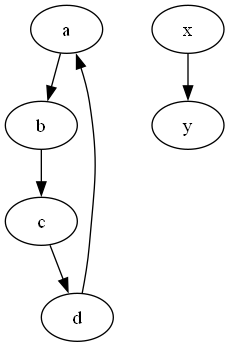
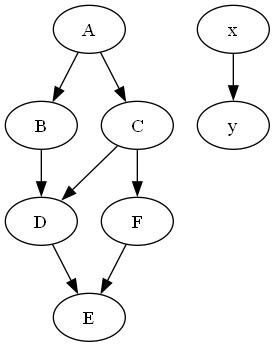
Add implementation for graph search

diff --git a/src/main/java/edu/asu/cse464/graphparser/BreadthFirstSearch.java b/src/main/java/edu/asu/cse464/graphparser/BreadthFirstSearch.java
@@ -1,0 +1,77 @@
+package edu.asu.cse464.graphparser;
+
+import java.util.*;
+
+
+public class BreadthFirstSearch implements GraphSearch {
+    private final GraphParser graph;
+
+    public BreadthFirstSearch(GraphParser graph) {
+        this.graph = graph;
+    }
+
+    @Override
+    public List<String> search(String src, String dst){
+        Queue<String> queue = new LinkedList<>();
+        Set<String> visited = new HashSet<>();
+        Map<String, String> prev = new HashMap<>();
+
+        List<String> BFSpath = new ArrayList<>();
+
+        //Check for valid inputs
+        if (src == null || dst == null) {
+            return null;
+        }
+        //Check if the src and dst nodes exists
+        if (!graph.doesNodeExists(src) || !graph.doesNodeExists(dst)){
+           return null;
+       }
+        //Return the node if source == destination
+        if( src.equals(dst)){
+            BFSpath.add(src);
+            return BFSpath;
+        }
+
+        //Start Logic
+        queue.add(src);
+        visited.add(src);
+        while (!queue.isEmpty()){
+            //Remove Node in the queue
+            String currentNode = queue.remove();
+
+
+            //Check if arrived at the destination
+            if (currentNode.equals(dst)){
+                break;
+            }
+            for (String neighbor : graph.getNeighbors(currentNode)){
+                if (!visited.contains(neighbor)){
+                    visited.add(neighbor);
+                    prev.put(neighbor, currentNode);
+                    queue.add(neighbor);
+                }
+
+            }
+        }
+
+        //Check if it reached the destination
+        if (!prev.containsKey(dst)){
+            return null;
+        }
+
+        //Find the BFS
+        String current = dst;
+        while (current != null){
+            BFSpath.add(current);
+            current = prev.get(current);
+        }
+
+        //Reverse the path so it goes from src to dst
+        Collections.reverse(BFSpath);
+        return BFSpath;
+
+
+    }
+
+
+}

diff --git a/src/main/java/edu/asu/cse464/graphparser/DepthFirstSearch.java b/src/main/java/edu/asu/cse464/graphparser/DepthFirstSearch.java
@@ -1,0 +1,70 @@
+package edu.asu.cse464.graphparser;
+
+import java.util.*;
+
+public class DepthFirstSearch implements GraphSearch {
+    private final GraphParser graph;
+    public DepthFirstSearch(GraphParser graph) {
+        this.graph = graph;
+    }
+
+    @Override
+    public List<String> search(String src, String dst) {
+        Stack<String> stack = new Stack<>();
+        Set<String> visited = new HashSet<>();
+        Map<String, String> prev = new HashMap<>();
+        List<String> DFSpath = new ArrayList<>();
+
+
+        //Check for valid inputs
+        if (src == null || dst == null) {
+            return null;
+        }
+        //Check if the src and dst nodes exists
+        if (!graph.doesNodeExists(src) || !graph.doesNodeExists(dst)){
+            return null;
+        }
+        //Return the node if source == destination
+        if( src.equals(dst)){
+            DFSpath.add(src);
+            return DFSpath;
+        }
+
+        //Start Logic
+        stack.push(src);
+        visited.add(src);
+        while (!stack.isEmpty()){
+            String currentNode = stack.pop();
+
+            //Check if the currentNode is the destination
+            if(currentNode.equals(dst)){
+                break;
+            }
+
+            for (String neighbor : graph.getNeighbors(currentNode)){
+                if(!visited.contains(neighbor)){
+                    stack.push(neighbor);
+                    visited.add(neighbor);
+                    prev.put(neighbor, currentNode);
+                }
+            }
+        }
+
+        //Check if destination was reached
+        if(!prev.containsKey(dst)){
+            return null;
+        }
+
+        //Find the DFS
+        String current = dst;
+        while(current != null){
+            DFSpath.add(current);
+            current = prev.get(current);
+        }
+
+        //Reverse the path so it goes from src to dst
+        Collections.reverse(DFSpath);
+        return DFSpath;
+
+    }
+}

diff --git a/src/main/java/edu/asu/cse464/graphparser/Main.java b/src/main/java/edu/asu/cse464/graphparser/Main.java
@@ -1,4 +1,5 @@
 package edu.asu.cse464.graphparser;
+import java.util.*;
 
 import java.io.IOException;
 
@@ -31,6 +32,27 @@ public class Main {
             gp.outputGraphics("output.png", "png");
             System.out.println("Created: output.dot and output.png");
 
+            //Feature 5: BFS Algorithm
+            System.out.println("\nFeature 5: Using BFS algorithm");
+            BreadthFirstSearch bfs = new BreadthFirstSearch(gp);
+            List<String> BFSresult = bfs.search("A", "E");
+            if(BFSresult == null) {
+                System.out.println("No path found");
+            } else {
+                System.out.println("BFS path:" + BFSresult);
+            }
+
+            //Feature 6: DFS algorithm
+            System.out.println("\nFeature 6: Using DFS algorithm");
+            DepthFirstSearch dfs = new DepthFirstSearch(gp);
+            List<String> DFSresult = dfs.search("A", "E");
+            if(DFSresult == null) {
+                System.out.println("No path found");
+            } else {
+                System.out.println("DFS path:" + DFSresult);
+            }
+
+            //Complete
             System.out.println("\n=== Demo Complete ===");
 
         } catch (IOException e) {

diff --git a/src/main/java/edu/asu/cse464/graphparser/GraphParser.java b/src/main/java/edu/asu/cse464/graphparser/GraphParser.java
@@ -8,10 +8,7 @@ import java.io.OutputStream;
 import java.nio.charset.StandardCharsets;
 import java.nio.file.Files;
 import java.nio.file.Path;
-import java.util.LinkedHashSet;
-import java.util.Locale;
-import java.util.Objects;
-import java.util.Set;
+import java.util.*;
 import java.util.regex.Matcher;
 import java.util.regex.Pattern;
 
@@ -197,8 +194,22 @@ public class GraphParser {
         return nodes.size();
     }
 
+    public boolean doesNodeExists(String label) {
+        return nodes.contains(label);
+    }
+
     public int getEdgeCount() {
         return edges.size();
+    }
+
+    public Set<String> getNeighbors(String label) {
+        Set<String> neighbors = new HashSet<>();
+        for (Edge edge : edges) {
+            if (edge.src.equals(label)) {
+                neighbors.add(edge.dst);
+            }
+        }
+        return neighbors;
     }
 
     public String toDotString() {
@@ -251,5 +262,6 @@ public class GraphParser {
         public int hashCode() {
             return 31 * src.hashCode() + dst.hashCode();
         }
+
     }
 }

diff --git a/src/main/java/edu/asu/cse464/graphparser/GraphSearch.java b/src/main/java/edu/asu/cse464/graphparser/GraphSearch.java
@@ -1,0 +1,7 @@
+package edu.asu.cse464.graphparser;
+
+import java.util.List;
+
+public interface GraphSearch {
+    List<String> search(String src, String dst);
+}
